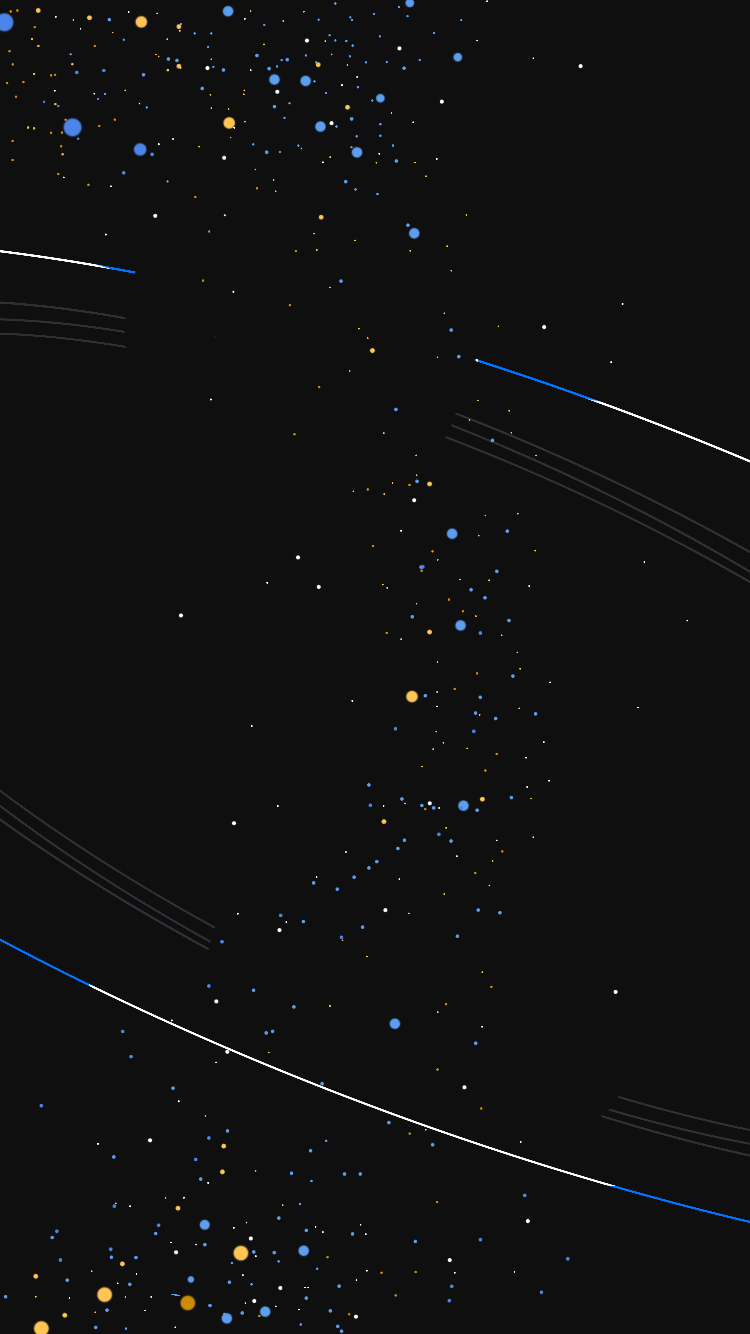
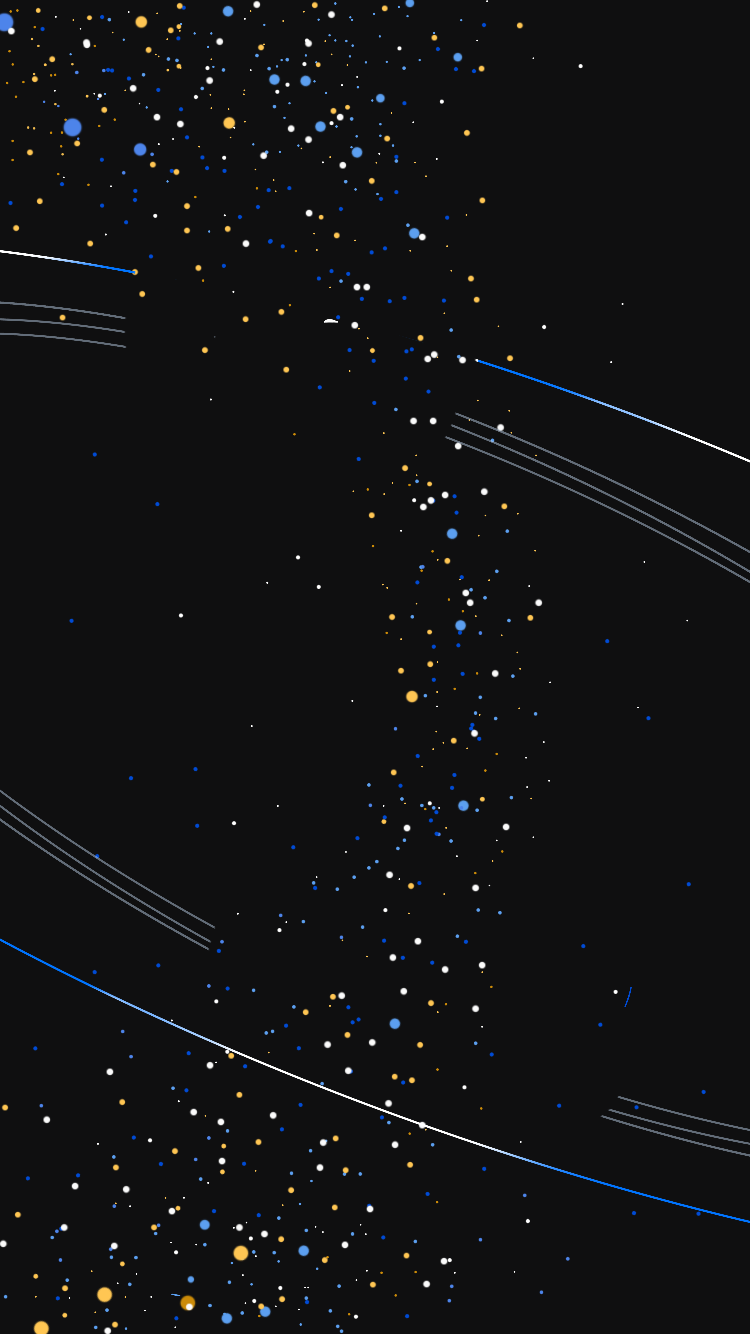
:construction: 完善动画、图片细节

diff --git a/src/pages/groupintro/index.tsx b/src/pages/groupintro/index.tsx
@@ -1,20 +1,24 @@
 import * as React from 'react';
 import anime from 'animejs';
-import './style.css';
 import { Link } from 'react-router-dom';
+import config from '../../config';
+import './style.css';
+
+const { groups } = config;
 
 const ncuhomePlanet = require('../../assets/png/ncuhome_planet.png')
 const pmPlanet = require('../../assets/png/introduce_pm_planet.png');
 const devPlanet = require('../../assets/png/introduce_dev_planet.png');
 const desighPlanet = require('../../assets/png/introduce_desigh_planet.png');
-const unknownPlanet = require('../../assets/png/introduce_unknown_planet.png');
+const omPlanet = require('../../assets/png/introduce_om_planet.png');
+const managePlanet = require('../../assets/png/introduce_manage_planet.png');
 
 const { useState, useEffect } = React;
 
-const planetArray = [pmPlanet, devPlanet, desighPlanet, unknownPlanet];
+const planetArray = [pmPlanet, devPlanet, desighPlanet, omPlanet, managePlanet];
 let textRef: HTMLDivElement;
 
-export default function GroupIntro(props:any) {
+export default function GroupIntro(props: any) {
 
   const [index, setIndex] = useState(0);
   const [isAnimeing, setIsAnimeing] = useState(false);
@@ -122,7 +126,7 @@ export default function GroupIntro(props:any) {
       direction: "alternate",
       easing: 'easeInOutQuad'
     });
-  },[]);
+  }, []);
 
   useEffect(() => {
     let startPos: any, endPos: any, isScrolling: number;
@@ -141,9 +145,9 @@ export default function GroupIntro(props:any) {
       if (isScrolling === 0) {    //当为水平滚动时
         if (Number(duration) > 10) {
           //判断是左移还是右移，当偏移量大于10时执行
-          if (endPos.x > 10 && index!==0) {
+          if (endPos.x > 10 && index !== 0) {
             startAnime(false);
-          } else if (endPos.x < -10 && index !==3) {
+          } else if (endPos.x < -10 && index !== 3) {
             startAnime(true);
           }
         }
@@ -153,7 +157,7 @@ export default function GroupIntro(props:any) {
       return true;
     }
     const handleTouchStart = (event: TouchEvent) => {
-      if(!isAnimeing) {
+      if (!isAnimeing) {
         const touch = event.targetTouches[0];
         startPos = { x: touch.pageX, y: touch.pageY, time: +new Date };
         isScrolling = 0;
@@ -170,7 +174,7 @@ export default function GroupIntro(props:any) {
   return (
     <div className="groupintro-container">
       <div className="next-planet-container">
-        <img src={planetArray[(index + 1) % 3]} alt="下一个星球" />
+        <img src={planetArray[(index + 1) % 5]} alt="下一个星球" />
       </div>
       <div className="ncuhome-planet-container">
         <img src={ncuhomePlanet} alt="家园星球" />
@@ -179,30 +183,27 @@ export default function GroupIntro(props:any) {
         <img src={planetArray[index]} alt="现在的星球" />
       </div>
       <div className="modal-container">
-        <div className="introduction-text-container" ref={Ref => textRef = Ref}>
-          <div className="headline-container">
-            <p>产品 组</p>
+        <div className="modal-container-background">
+          <div className="introduction-text-container" ref={Ref => textRef = Ref}>
+            <div className="headline-container">
+              <p>{groups[index].name} 组</p>
+            </div>
+            <div className="subheading-container">
+              <p>{groups[index].subheading}</p>
+            </div>
+            <div className="introdution-container">
+              {groups[index].description.map((line: string, index: number) => (<p key={index}>{line}</p>))}
+            </div>
           </div>
-          <div className="subheading-container">
-            <p>人均都有超能力</p>
-          </div>
-          <div className="introdution-container">
-            <p>头脑风暴、思维导图、交互设计</p>
-            <p>我们是逻辑控、控制狂</p>
-            <p>规划产品蓝图</p>
-            <p>把控项目进度</p>
-            <p>协调对接工作</p>
-            <p>一款产品的前世今生，由我们缔造</p>
-          </div>
-        </div>
-        <div className="joinus-container">
-          <span />
-          <Link to="/application" >
-            JOIN US
+          <div className="joinus-container">
+            <span />
+            <Link to="/application" >
+              JOIN US
           </Link>
+          </div>
         </div>
-        <div className="arrow-pre" onClick={handlePreClick} hidden={index===0} />
-        <div className="arrow-next" onClick={handleNextClick} hidden={index===3} />
+        <div className="arrow-pre" onClick={handlePreClick} hidden={index === 0} />
+        <div className="arrow-next" onClick={handleNextClick} hidden={index === 4} />
       </div>
     </div>
   )

diff --git a/src/pages/application/index.tsx b/src/pages/application/index.tsx
@@ -5,7 +5,8 @@ import './style.css';
 
 const { useState, useEffect } = React;
 
-const circle_arrow = require('../../assets/svg/circle_arrow.svg');
+const ncuhome = require('../../assets/png/application_ncuhome.png');
+const arrowUp = require('../../assets/svg/form_arrow_up.svg');
 
 export default function Application(props: any) {
   const [formValues, setFormValues] = useState({
@@ -36,7 +37,7 @@ export default function Application(props: any) {
   useEffect(() => {
     // 计算icon位置使表单始终只露出标题
     const heightdif:number = document.body.clientHeight -667
-    const newMarginBottom:number = heightdif + 100 - (heightdif*0.10);
+    const newMarginBottom:number = heightdif + 100 - (heightdif*0.1);
     setNcuhomeStyle({
       "marginBottom": `${newMarginBottom}px`,
       "transition": "1s all",
@@ -57,22 +58,26 @@ export default function Application(props: any) {
 
   useEffect(() => {
     const circleAnime = anime({
-      targets: ".application-container .circle",
+      targets: ".application-container .ncuhome-planet-container img",
       direction: 'normal',
       duration: 500,
       easing: 'easeInOutQuad',
-      width: "100vw",
-      borderTopLeftRadius: "0%",
-      borderTopRightRadius: "0%"
+      scale: '1.5'
     });
     circleAnime.pause();
-    const arrowDisapearAnime = anime({
-      targets: ".application-container .icon-container img",
-      opacity: [1, 0],
+    const disapearAnime = anime.timeline({
       duration: 1000,
       easing: 'linear'
     });
-    arrowDisapearAnime.pause();
+    disapearAnime.add({
+      targets: ".application-container .icon-container img",
+      opacity: [1, 0]
+    },0)
+    .add({
+      targets: ".application-container .ncuhome-container",
+      opacity: [1, 0]
+    },0);
+    disapearAnime.pause();
     const handleScroll = (e:any) => {
       const halfCircleTop = 150 + document.body.clientHeight * 0.05;
       const scrollTop = document.documentElement.scrollTop || document.body.scrollTop;
@@ -83,16 +88,16 @@ export default function Application(props: any) {
           circleAnime.seek(circleAnime.duration);
         }
         circleAnime.play();
-        arrowDisapearAnime.play();
+        disapearAnime.play();
       }
       else if ((scrollTop < halfCircleTop) && !isUpper) {
         setIsUpper(true);
         circleAnime.reverse();
         circleAnime.seek(circleAnime.duration);
         circleAnime.play();
-        arrowDisapearAnime.reverse();
-        arrowDisapearAnime.seek(arrowDisapearAnime.duration);
-        arrowDisapearAnime.play();
+        disapearAnime.reverse();
+        disapearAnime.seek(disapearAnime.duration);
+        disapearAnime.play();
       }
     };
     window.addEventListener("scroll",handleScroll);
@@ -103,16 +108,15 @@ export default function Application(props: any) {
 
   return (
     <div className="application-container">
-      <div className="circle-container">
-        <div className="circle" id="mycircle">
-        </div>
+      <div className="ncuhome-planet-container">
+        <img src={ncuhome} className="ncuhome-planet" alt="ncuhome" />
       </div>
       <div className="ncuhome-container">
         <p style={ncuhomeStyle}>家园工作室</p>
       </div>
       <div className="form-container">
         <div className="icon-container">
-          <img src={circle_arrow}/>
+          <img src={arrowUp}/>
         </div>
         <div className="divide-line">
           <span />

diff --git a/src/pages/application/style.css b/src/pages/application/style.css
@@ -3,26 +3,21 @@
     center bottom/100% no-repeat url('../../assets/png/xiaojiayuan.png'),
     center bottom/100% no-repeat url('../../assets/png/planet.png'),
     center bottom/100% no-repeat url('../../assets/png/cloud.png'),
-    center bottom/100% space url('../../assets/png/space.png'),
+    center bottom/100% space url('../../assets/png/space.png') fixed,
     rgb(14, 15, 16);
   padding-bottom: 220px;
+  overflow: hidden;
+  
 }
 
-.application-container .circle-container {
+.application-container .ncuhome-planet-container {
   display: flex;
   justify-content: center;
 }
 
-.application-container .circle-container .circle {
-  width: 297px;
-  height: 297px;
-  min-width: 297px;
-  min-height: 297px;
-  background-color: rgba(50, 50, 50, 1);
-  margin: 5vh auto 5vh;
-  box-shadow: 0px 2px 16px 0px rgba(0, 0, 0, 0.23);
-  border: 6px solid rgba(31, 31, 31, 1);
-  border-radius: 100%;
+.application-container .ncuhome-planet-container img {
+  width: 350px;
+  margin: 4vh auto 0;
 }
 
 .application-container .ncuhome-container {
@@ -31,6 +26,8 @@
 }
 
 .application-container .ncuhome-container p {
+  position: relative;
+  top: -3vh;
   color: rgba(223, 223, 223, 1);
   font-size: 24px;
   text-align: left;
@@ -41,7 +38,6 @@
 .application-container .form-container .icon-container {
   display: flex;
   justify-content: center;
-  color: rgb(56, 56, 56);
   font-size: 28px;
 }
 

diff --git a/src/pages/groupintro/style.css b/src/pages/groupintro/style.css
@@ -39,14 +39,9 @@
 .groupintro-container .modal-container {
   position: relative;
   top: 20vh;
-  z-index: 1;
-  opacity: 0.85;
-  border-radius: 16px;
-  background-color: rgba(21, 21, 21, 1);
   color: rgba(255, 255, 255, 0.85);
-  padding: 0 8vw;
+  opacity: 0.85;
   font-size: 14px;
-  overflow: hidden;
   filter:url(#blur_j0dp3cg7a);
 }
 
@@ -60,8 +55,17 @@
   z-index: -1;
 }
 
+.groupintro-container .modal-container .modal-container-background {
+  margin: 0 8vw;
+  border-radius: 16px;
+  background-color: rgba(21, 21, 21, 1);
+  z-index: 1;
+  overflow: auto;
+}
+
 .groupintro-container .modal-container .introduction-text-container {
   padding: 42px 30px 0;
+  height: 45vh;
 }
 
 .groupintro-container .modal-container .introduction-text-container .headline-container p {
@@ -108,7 +112,7 @@
 
 .groupintro-container .modal-container .arrow-next {
   position: absolute;
-  right: 0;
+  right: 1vw;
   top: 50%;
   width: 20px;
   height: 40px;
@@ -117,7 +121,7 @@
 
 .groupintro-container .modal-container .arrow-pre {
   position: absolute;
-  left: 0;
+  left: 1vw;
   top: 50%;
   width: 20px;
   height: 40px;

diff --git a/src/config.tsx b/src/config.tsx
@@ -25,6 +25,48 @@ export default {
     },
   },
   mobileQuery: 'only screen and (max-width: 1079px)',
+  groups: [
+    {
+      name: "产品",
+      subheading: "人均都有超能力",
+      description: [
+        "头脑风暴、思维导图、交互设计",
+        "我们是逻辑控、控制狂",
+        "规划产品蓝图",
+        "把控项目进度",
+        "协调对接工作",
+        "一款产品的前世今生，由我们缔造",
+      ],
+    },
+    {
+      name: "研发",
+      subheading: "",
+      description: [
+        "",
+      ],
+    },
+    {
+      name: "设计",
+      subheading: "",
+      description: [
+        "",
+      ],
+    },
+    {
+      name: "运营",
+      subheading: "",
+      description: [
+        "",
+      ],
+    },
+    {
+      name: "行政",
+      subheading: "",
+      description: [
+        "",
+      ],
+    },
+  ],
   products:[
     {
       name: "南大家园",

diff --git a/src/pages/productintro/style.css b/src/pages/productintro/style.css
@@ -1,3 +1,8 @@
+.productintro-container {
+  height: 100vh;
+  background: url('../../assets/png/product_background.png') center/100% no-repeat;
+}
+
 .productintro-container .joinlink-container {
   width: 100vw;
   display: flex;
